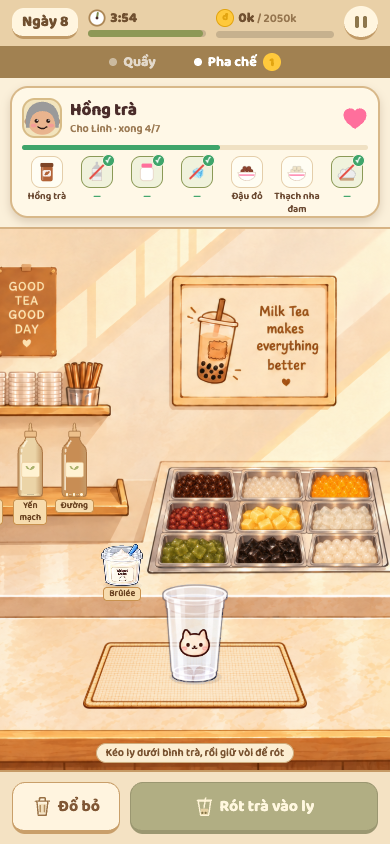
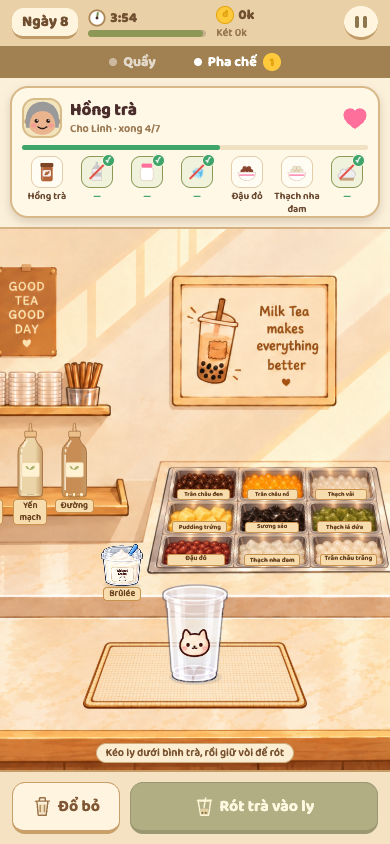
One money number in the HUD, and straight topping columns
The HUD showed two money numbers — today's takings, then the till beneath
them — and two numbers side by side read as a number and its target, which is
exactly what the removed day-goal used to be. The till is the one that
matters: it is what the player will spend, it carries between days, and the
flying coins already land on it. `coins` is dropped from Hud's props and
the till `useCountUp` is the thing that bumps and ticks. The «Két» line and
its style go with it.

The menu's money widget goes too. The till was on the title screen because
the shop a player buys from opens from there, so the balance needs to be
readable from there — but the shop does not exist yet, and a number with no
call to action has no reason to be on the card. The menu scrolls to keep
everything above the fold on a 375×667 phone; removing the widget clears a
row it was already tight over.

The day-end screen gets a «Tiền bán hôm nay» label above the coins to make
clear it is this shift's earnings, since the HUD no longer has two labelled
numbers next to each other. The earnings row loses its own `marginTop` —
the label takes that space now.

The tray edges move into `toppingGeometry.ts` and are derived from just the
back and front anchors. They were four independently stored points before;
any of the middle two could have been nudged without the column dividers
above and below noticing, and the new `check-topping-layout.cjs` test
[…]

Changed region(s): [[0.4, 0.5545, 1.0, 0.6777], [0.5538, 0.0, 0.8615, 0.0616]]

diff --git a/src/components/Hud.tsx b/src/components/Hud.tsx
@@ -12,9 +12,7 @@ interface HudProps {
   day: number;
   clock: number;
   durationMs: number;
-  /** Taken at the counter today: the number the flying coins land on. */
-  coins: number;
-  /** Everything the shop has put by, today's takings included. */
+  /** The shop's till: everything it has put by. The flying coins land on it. */
   money: number;
   onPause: () => void;
   warm?: boolean;
@@ -25,25 +23,22 @@ interface HudProps {
 /** Coins land in the wallet a moment after a sale; the counter waits for them. */
 const COIN_ARRIVAL_MS = 750;
 
-export function Hud({ day, clock, durationMs, coins, money, onPause, onWalletLayout, warm = false }: HudProps) {
+export function Hud({ day, clock, durationMs, money, onPause, onWalletLayout, warm = false }: HudProps) {
   const remaining = Math.max(0, durationMs - clock);
   const seconds = Math.ceil(remaining / 1000);
   const closing = remaining === 0;
   const timeLabel = closing ? 'Sắp đóng cửa!' : `${Math.floor(seconds / 60)}:${String(seconds % 60).padStart(2, '0')}`;
-  const shown = useCountUp(coins, COIN_ARRIVAL_MS);
+  const shown = useCountUp(money, COIN_ARRIVAL_MS);
   const walletRef = useRef<View>(null);
-  // The till is counted up off the same number, so a sale lands on both at once instead of adding
-  // itself to the total while the day's takings are still rolling towards it.
-  const inTill = money - coins + shown;
 
   const bump = useSharedValue(1);
-  const previousCoins = useRef(coins);
+  const previousMoney = useRef(money);
   useEffect(() => {
-    if (coins > previousCoins.current) {
+    if (money > previousMoney.current) {
       bump.value = withDelay(COIN_ARRIVAL_MS, withSequence(withTiming(1.12, timing(DURATION.fast)), withTiming(1, timing(DURATION.base))));
     }
-    previousCoins.current = coins;
-  }, [bump, coins]);
+    previousMoney.current = money;
+  }, [bump, money]);
   const bumpStyle = useAnimatedStyle(() => ({ transform: [{ scale: bump.value }] }));
 
   return (
@@ -78,12 +73,9 @@ export function Hud({ day, clock, durationMs, coins, money, onPause, onWalletLay
             {formatMoney(shown)}
           </Text>
         </View>
-        {/* The day's takings are the big number because they are what the shift is; the till under
-            them is what the player actually has to spend. It stands where the goal's progress bar
-            used to, which keeps the HUD the height the kitchen is laid out from. */}
-        <Text style={[styles.till, warm && styles.warmSoft]} numberOfLines={1}>
-          Két {formatMoney(inTill)}
-        </Text>
+        {/* One number, and it is the till — what the shop has to spend, not what this shift has
+            taken. The day's own takings are the day-end screen's to report. There is nothing to
+            run a progress bar towards any more, so the clock alone sets the HUD's height. */}
       </View>
 
       <Pressable onPress={onPause} style={[styles.pause, warm && styles.warmPill]} accessibilityLabel="Tạm dừng" hitSlop={8}>
@@ -178,12 +170,6 @@ const styles = StyleSheet.create({
     lineHeight: 18,
     fontFamily: fonts.display,
     color: '#FFFFFF',
-  },
-  till: {
-    fontFamily: fonts.semi,
-    fontSize: 11,
-    lineHeight: 13,
-    color: '#FFE3EC',
   },
   closing: {
     color: '#FFF3B0',

diff --git a/src/screens/TitleScreen.tsx b/src/screens/TitleScreen.tsx
@@ -10,7 +10,6 @@ import { Cup } from '../components/Cup';
 import { SettingsSheet } from '../components/SettingsSheet';
 import { CustomerLook } from '../game/customers';
 import { Drink } from '../game/ingredients';
-import { formatMoney } from '../game/money';
 import { GameMode } from '../game/reducer';
 import { DURATION, timing } from '../motion';
 import { colors, fonts } from '../theme';
@@ -39,13 +38,11 @@ function stepsFor(mode: GameMode) {
 
 interface TitleScreenProps {
   onStart: () => void;
-  /** What the shop has put by across every day it has traded. */
-  money: number;
   mode: GameMode;
   onChangeMode: (mode: GameMode) => void;
 }
 
-export function TitleScreen({ onStart, money, mode, onChangeMode }: TitleScreenProps) {
+export function TitleScreen({ onStart, mode, onChangeMode }: TitleScreenProps) {
   const { width, height } = useWindowDimensions();
   const cupWidth = Math.min(130, width * 0.32);
   const [settings, setSettings] = useState(false);
@@ -83,12 +80,6 @@ export function TitleScreen({ onStart, money, mode, onChangeMode }: TitleScreenP
 
           <SlideUp>
             <View style={styles.card}>
-              {/* The till is on the menu because this is where it will be spent: the shop a player
-                  buys from opens from here, so the balance has to be readable from here too. */}
-              <View style={styles.till}>
-                <Text style={styles.tillLabel}>Két tiền của tiệm</Text>
-                <Text style={styles.tillAmount}>{formatMoney(money)}</Text>
-              </View>
               {stepsFor(mode).map((step) => (
                 <Text key={step} style={styles.step}>
                   {step}
@@ -248,26 +239,6 @@ const styles = StyleSheet.create({
     gap: 8,
     borderBottomWidth: 6,
     borderBottomColor: colors.line,
-  },
-  till: {
-    flexDirection: 'row',
-    alignItems: 'baseline',
-    justifyContent: 'space-between',
-    backgroundColor: '#FFF4D6',
-    borderRadius: 14,
-    paddingHorizontal: 12,
-    paddingVertical: 6,
-  },
-  tillLabel: {
-    fontSize: 14,
-    fontFamily: fonts.semi,
-    color: '#A07A3C',
-  },
-  tillAmount: {
-    fontSize: 20,
-    lineHeight: 26,
-    fontFamily: fonts.display,
-    color: colors.goldDark,
   },
   step: {
     fontSize: 16,

diff --git a/src/components/art/toppingGeometry.ts b/src/components/art/toppingGeometry.ts
@@ -8,6 +8,15 @@ export interface ToppingPanShape {
 
 export interface ToppingTrayEdge { x0: number; x1: number; y: number }
 
+/** Calibrate the tray's two ends; every divider between them stays on the same straight line. */
+const TRAY_BACK: ToppingTrayEdge = { x0: 1127, x1: 1501, y: 454 };
+const TRAY_FRONT: ToppingTrayEdge = { x0: 1095, x1: 1533, y: 640 };
+export const TOPPING_TRAY_EDGES: ToppingTrayEdge[] = [0, 1 / 3, 2 / 3, 1].map(t => ({
+  x0: TRAY_BACK.x0 + (TRAY_FRONT.x0 - TRAY_BACK.x0) * t,
+  x1: TRAY_BACK.x1 + (TRAY_FRONT.x1 - TRAY_BACK.x1) * t,
+  y: TRAY_BACK.y + (TRAY_FRONT.y - TRAY_BACK.y) * t,
+}));
+
 /** Divide one tray plane into cells with shared edges, rather than nine separate tapers. */
 export function toppingPanBounds(back: ToppingTrayEdge, front: ToppingTrayEdge, column: number) {
   const left = column / 3;
@@ -69,7 +78,9 @@ export function toppingPanBands(
   const left = (y: number) => (b * y + c) / (q * y + 1);
   const right = (y: number) => (a * width + b * y + c) / (q * y + 1);
   const travel = Math.max(Math.abs(left(height) - left(0)), Math.abs(right(height) - right(0)));
-  const count = Math.max(4, Math.min(32, Math.ceil(travel)));
+  // Almost-parallel target edges can cancel the atlas taper in this measure. Keep enough bands
+  // to resolve the curved painted rim even when its enclosing rectangle barely moves.
+  const count = Math.max(16, Math.min(64, Math.ceil(travel * 2)));
 
   const bands: ToppingPanBand[] = [];
   for (let i = 0; i < count; i++) {

diff --git a/src/screens/DayEndScreen.tsx b/src/screens/DayEndScreen.tsx
@@ -74,8 +74,10 @@ export function DayEndScreen({ state, onNextDay, onMenu }: DayEndScreenProps) {
           <Text style={styles.title}>{`Hoàn thành ngày ${day}!`}</Text>
           <Text style={styles.subtitle}>{VERDICT[stars]}</Text>
 
-          {/* The day's takings, and then where they went. Nothing here can be failed: the money is
-              banked whatever the stars say, and it is the till that the player goes shopping with. */}
+          {/* The day's takings, and then where they went. This is the only screen that reports a
+              single day's earnings — the HUD counts the till — so the two are labelled apart.
+              Nothing here can be failed: the money is banked whatever the stars say. */}
+          <Text style={styles.earnedLabel}>Tiền bán hôm nay</Text>
           <View style={styles.earnings}>
             <Coin size={30} />
             <CountUp value={coins} style={styles.earned} />
@@ -241,12 +243,18 @@ const styles = StyleSheet.create({
     color: colors.inkSoft,
     textAlign: 'center',
   },
+  earnedLabel: {
+    marginTop: 10,
+    fontSize: 14,
+    fontFamily: fonts.semi,
+    color: colors.inkSoft,
+    textAlign: 'center',
+  },
   earnings: {
     flexDirection: 'row',
     alignItems: 'center',
     justifyContent: 'center',
     gap: 8,
-    marginTop: 10,
   },
   earned: {
     fontSize: 36,

diff --git a/src/components/art/kitchenArt.ts b/src/components/art/kitchenArt.ts
@@ -1,4 +1,5 @@
 import { TOPPING_PANS, TOPPING_PIECES, TOPPING_SCOOPS } from './toppingArt';
+import { TOPPING_TRAY_EDGES } from './toppingGeometry';
 
 /**
  * The painted kitchen, sprite by sprite, plus the geometry the code needs to line up with it.
@@ -212,12 +213,7 @@ export const ROOM_BG_ICE_MACHINE = { x: 230, y: 585, width: 265, height: 116 };
 export const ROOM_BG_CUP_HOLDER = { x: 553, y: 782, width: 424, height: 127 };
 export const ROOM_BG_TOPPING_SHELF = {
   // Shared boundaries project the whole grid into the basin's perspective.
-  edges: [
-    { x0: 1127, x1: 1499, y: 456 },
-    { x0: 1117, x1: 1507, y: 516 },
-    { x0: 1106, x1: 1515, y: 577 },
-    { x0: 1095, x1: 1523, y: 640 },
-  ],
+  edges: TOPPING_TRAY_EDGES,
   // Unlock order, read like a page: left to right along the back row, then the next row forward.
   slots: ['pearls', 'popping', 'lychee', 'pudding', 'grass', 'pandan', 'redbean', 'aloe', 'crystal'],
 };

diff --git a/App.tsx b/App.tsx
@@ -77,7 +77,6 @@ function Shop({ initial, writable }: { initial: GameState; writable: boolean }) 
         {screen.phase === 'title' && (
           <TitleScreen
             onStart={() => dispatch({ type: 'START_DAY', day: 1 })}
-            money={screen.money}
             mode={screen.mode}
             onChangeMode={(mode) => dispatch({ type: 'SET_MODE', mode })}
           />

diff --git a/src/screens/GameScreen.tsx b/src/screens/GameScreen.tsx
@@ -210,7 +210,6 @@ export function GameScreen({ state, dispatch }: GameScreenProps) {
           warm={page === 1}
           clock={state.clock}
           durationMs={config.durationMs}
-          coins={state.coins}
           money={state.money}
           onPause={() => dispatch({ type: 'SET_PAUSED', paused: true })}
           onWalletLayout={(x, y) => setWallet({ x, y })}

diff --git a/CLAUDE.md b/CLAUDE.md
@@ -356,12 +356,14 @@ ngày N" button. What the shop takes it keeps, and tomorrow always opens.
 
 In its place are **two numbers, which are not the same thing**:
 
-- **`coins` is what was taken today.** `START_DAY` resets it, the flying coins land on it, and it
-  is what the day-end screen tallies.
+- **`coins` is what was taken today.** `START_DAY` resets it, and the **day-end screen is the only
+  place it is shown** ("Tiền bán hôm nay"). It is deliberately not in the HUD: two money numbers
+  side by side there read as one number and its target, which is the thing this replaced.
 - **`money` is the shop's till** — everything it has ever earned and not spent. It carries from
   day to day, it rides in the save, and it is what the shopping still to be built will be paid out
-  of. It is read on the HUD under the day's takings, on the opening sign, on the menu, and under
-  the tally at the end of the day.
+  of. It is the one money number during play: the HUD counts it up and the flying coins land on
+  it, the opening sign reads it, and the day-end screen shows where the day's takings went. The
+  menu shows no money at all.
 
 Both are added to in exactly one place (`serve`), and `SPEND` is the only thing that takes any
 out. Nothing dispatches `SPEND` yet: it and `canAfford` are there so that when a shop screen is
@@ -886,8 +888,9 @@ stands plainly inside the shelf; divided across the board it laps over the ends 
 - UI: `npx expo export --platform web`, serve `dist/`, and look at it at phone sizes
   (390×844 and the small 375×667). The Prep page is reached by swiping left or tapping the "Pha chế"
   tab. To test a later day quickly, temporarily change `START_DAY, day: 1` in `App.tsx` — revert
-  before committing. The money shows in four places (HUD, opening sign, menu, day end); the
-  quickest way to see any of them against a particular balance is to write a save with the `money`
+  before committing. The money shows in three places (the HUD and the opening sign, both the till;
+  the day-end screen, which is the only one that reports a single day's takings); the quickest way
+  to see any of them against a particular balance is to write a save with the `coins` and `money`
   you want straight to `localStorage`, the way the cup states are set up above.
 - Native bundles: `npx expo export --platform ios --platform android` catches native-only
   bundling errors; `npx expo-doctor` checks dependency health.

diff --git a/docs/topping-art.md b/docs/topping-art.md
@@ -1,5 +1,7 @@
 # Nine-bin topping station
 
+The layout anchors are the back and front edges in `toppingGeometry.ts`. The intermediate row edges are interpolated from those anchors, keeping the outer sides and both column dividers straight through all three rows. Adjust the end anchors rather than individual row corners; `check-topping-layout.cjs` checks the production divider lines for bends.
+
 The reference's inset 3×3 tray uses three matching transparent atlases, generated with the built-in imagegen tool:
 
 - `src/assets/kitchen/topping-pans.png`: nine filled pans plus an empty pan for ingredients that have not unlocked.
